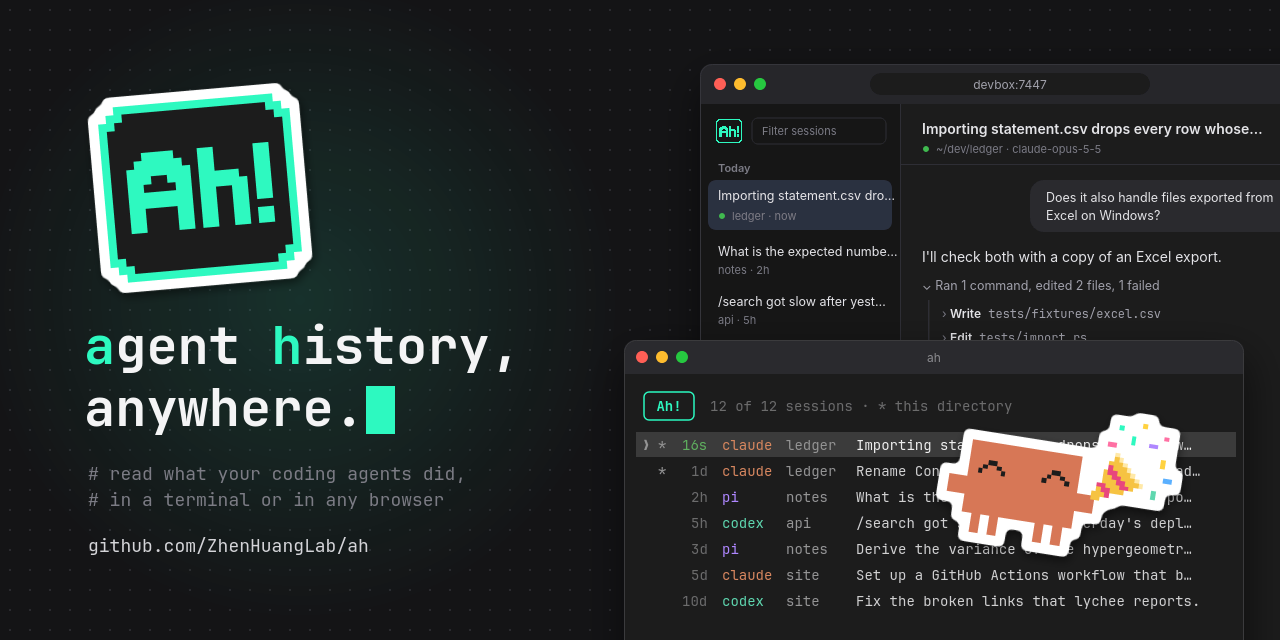
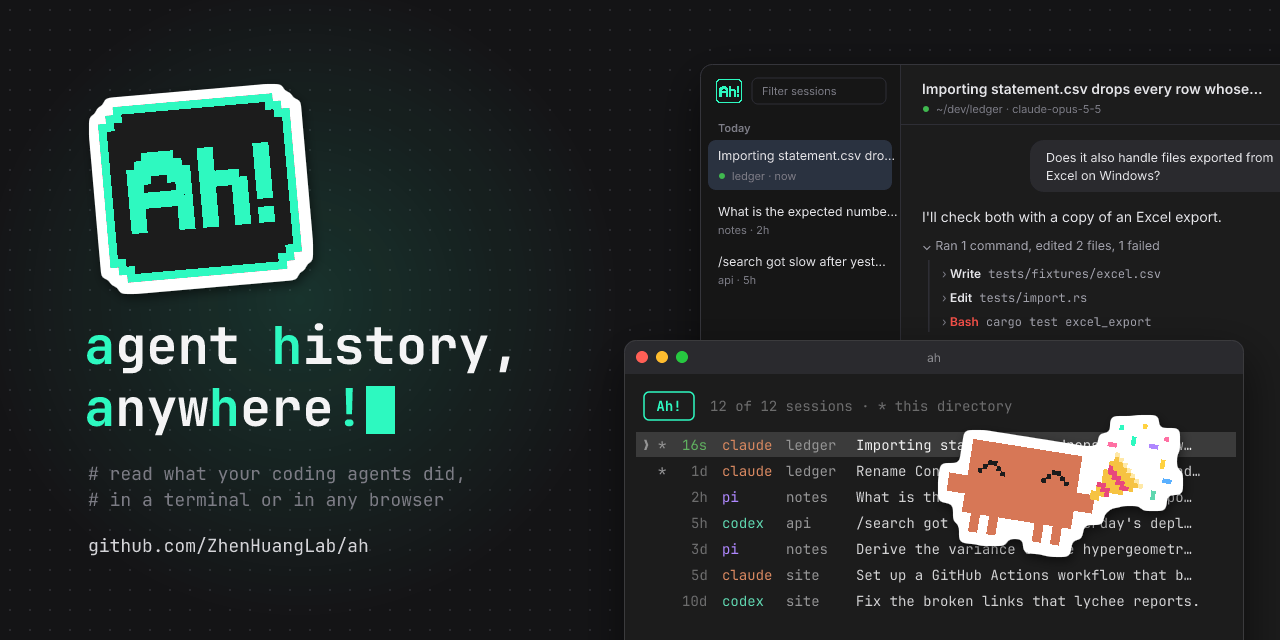
Drop the browser's title bar from the social preview card
The slogan now reads "agent history, anywhere!", and the "a" and "h" of
"anywhere" and the "!" are green like the initials in "agent history".

The browser window starts with the app itself. Its content moved up by the
40px the title bar took, which uncovers the failed Bash row that the "1 failed"
summary refers to. The READMEs' alt text follows the new slogan.

diff --git a/README.md b/README.md
@@ -1,5 +1,5 @@
 <p align="center">
-  <img src="docs/social-preview.png" alt="ah: agent history, anywhere. The session list in a terminal in front of a session in a browser">
+  <img src="docs/social-preview.png" alt="ah: agent history, anywhere! The session list in a terminal in front of a session in a browser">
 </p>
 
 <h1 align="center">ah</h1>

diff --git a/README.zh-CN.md b/README.zh-CN.md
@@ -1,5 +1,5 @@
 <p align="center">
-  <img src="docs/social-preview.png" alt="ah：agent history, anywhere。终端里的会话列表，后面是浏览器里的一个会话">
+  <img src="docs/social-preview.png" alt="ah：agent history, anywhere！终端里的会话列表，后面是浏览器里的一个会话">
 </p>
 
 <h1 align="center">ah</h1>
